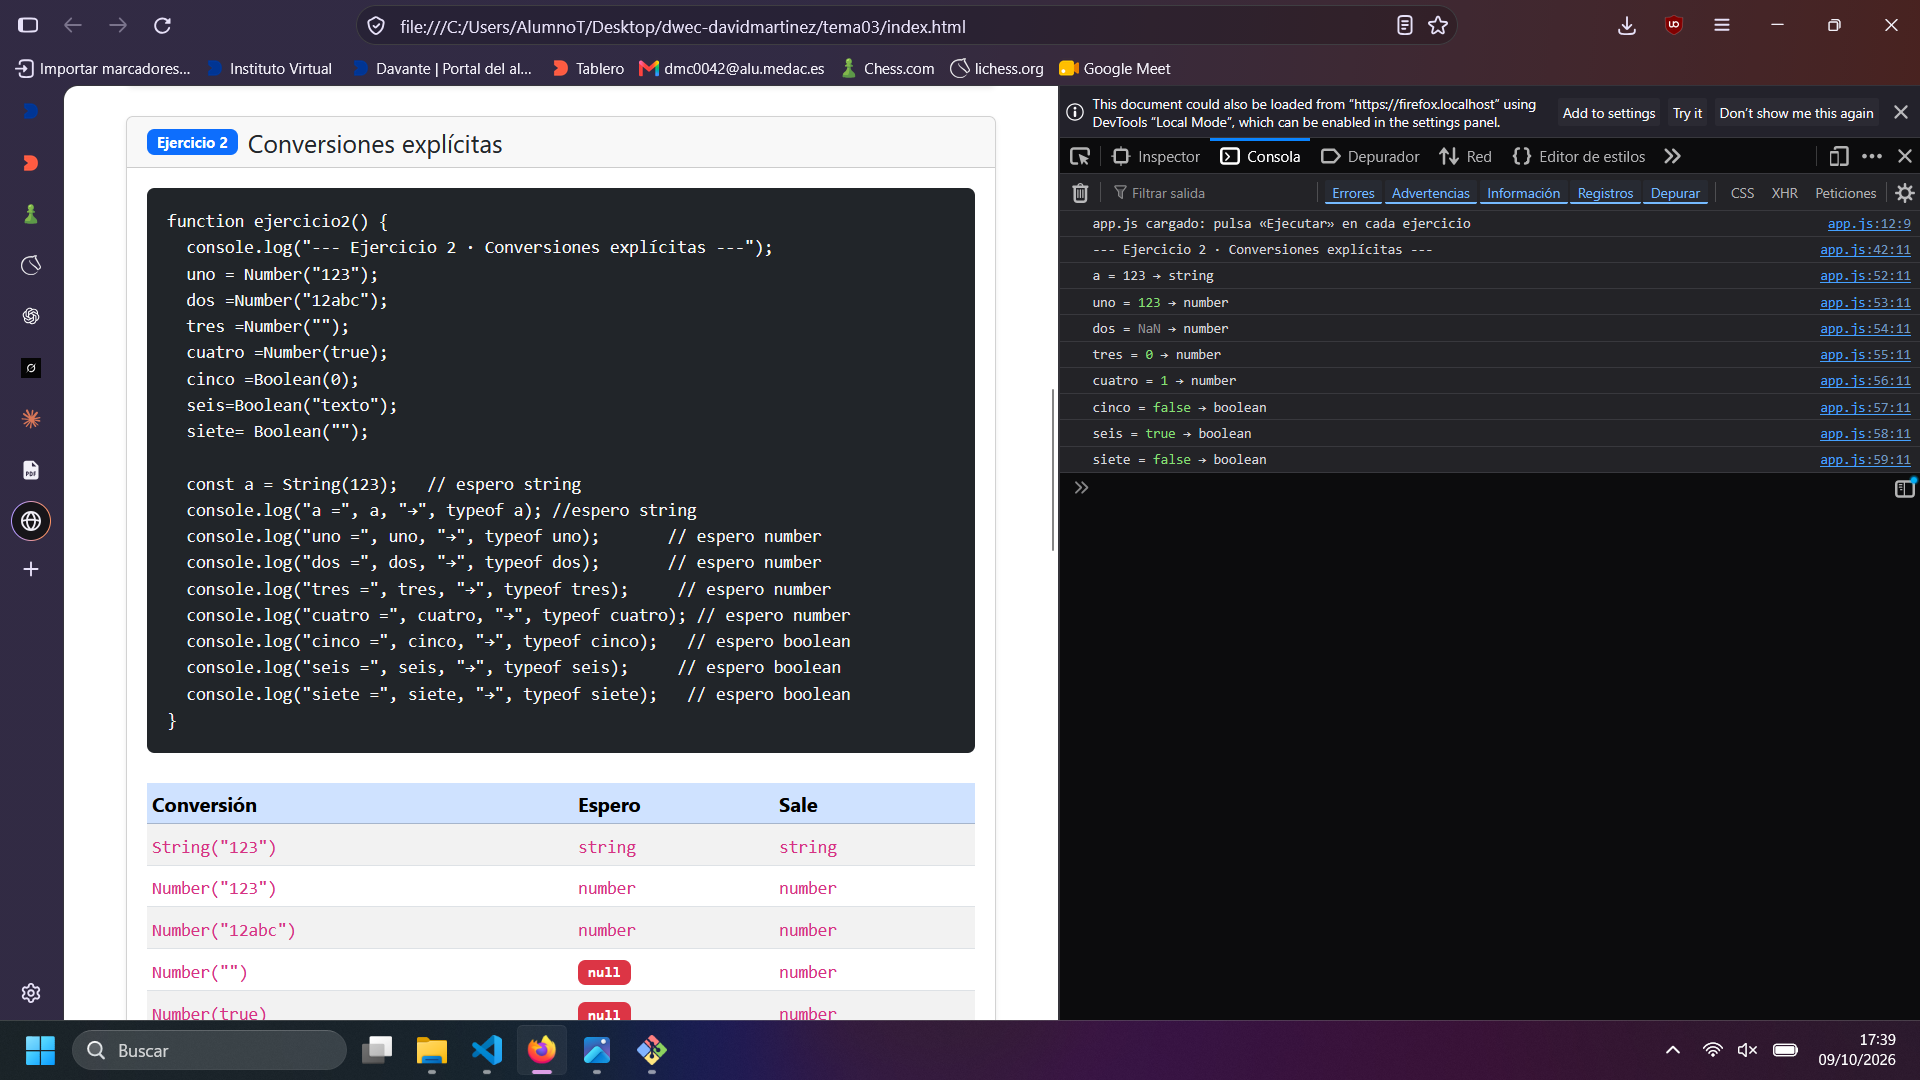
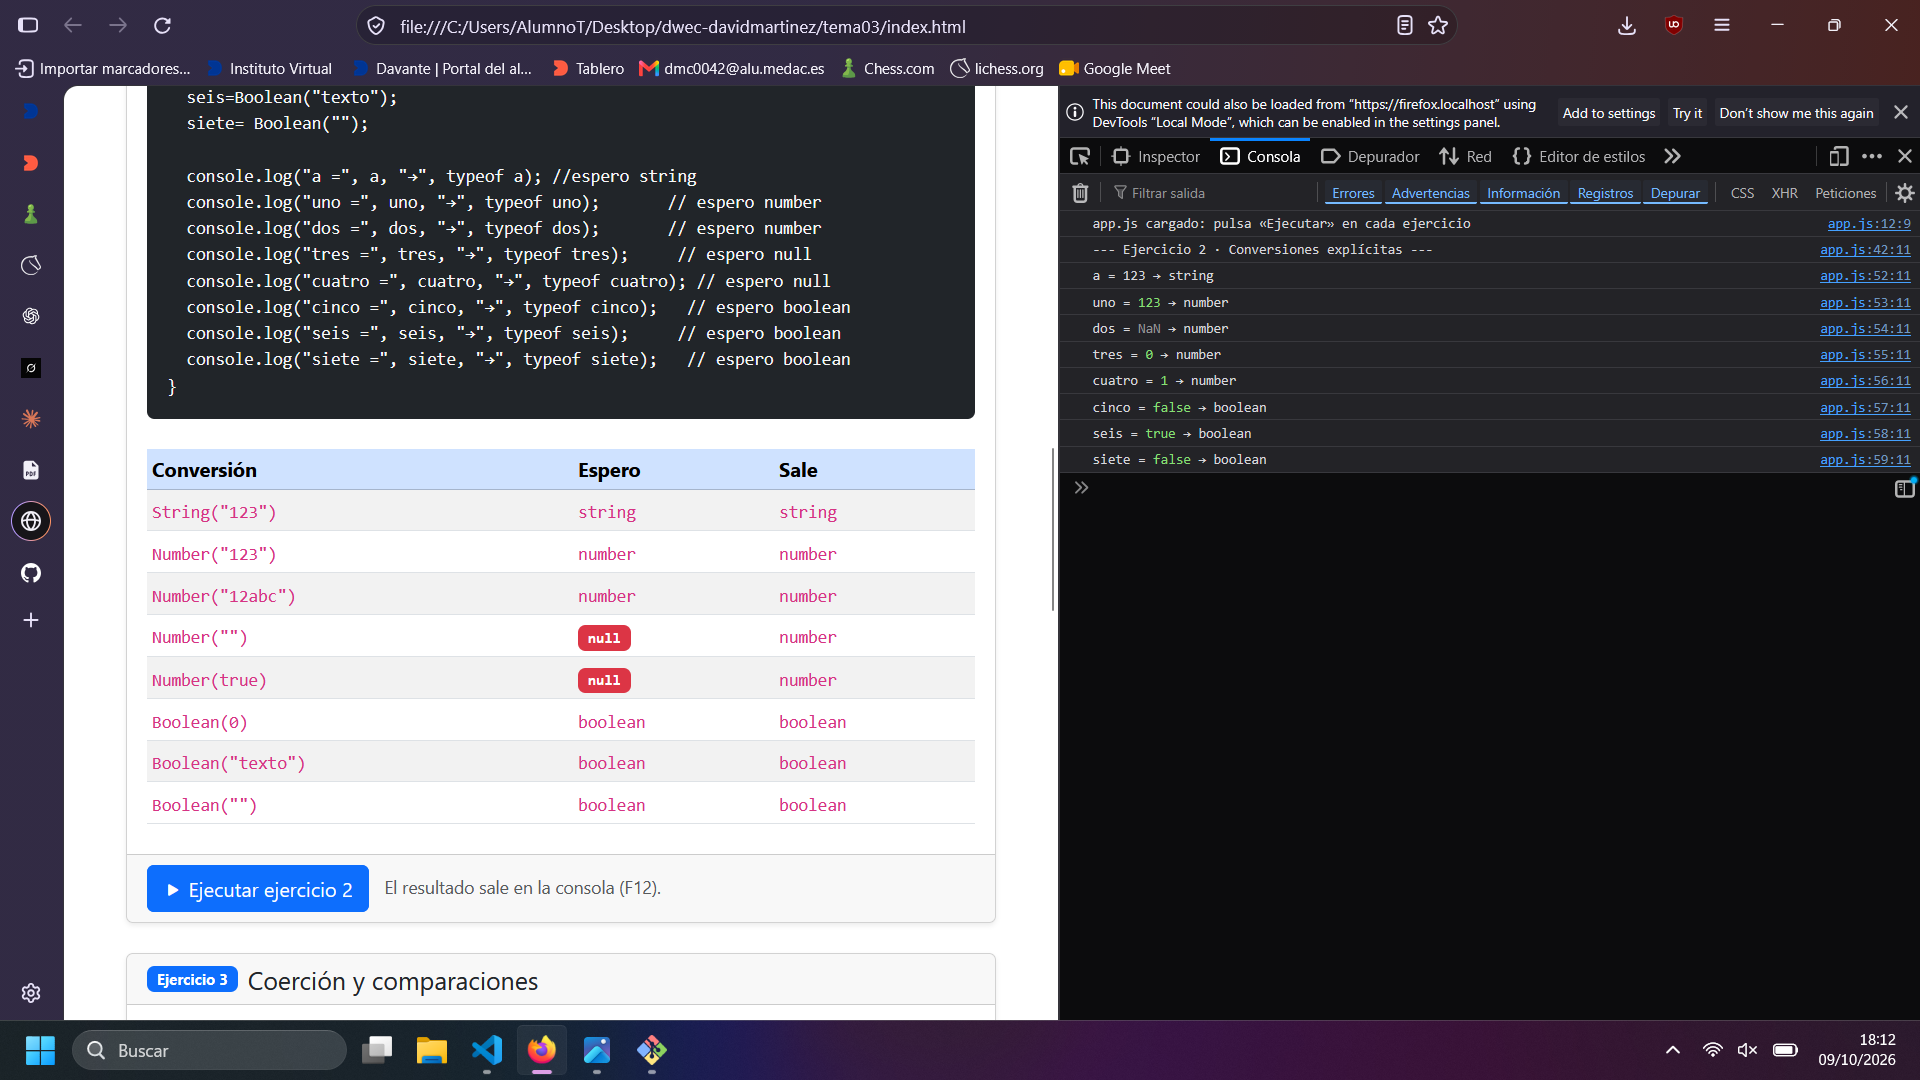
Cambiada captura errónea y algun texto sobrante

Changed region(s): [[0.0625, 0.0611, 0.5312, 0.9472], [0.0, 0.5194, 0.0312, 0.55]]

diff --git a/tema03/README.md b/tema03/README.md
@@ -48,5 +48,5 @@ Luego los booleanos me parecieron bastante intuitivos porque al ser o 0 o 1 es m
 - [Claude](https://claude.ai)
 ## Uso de IA
 
-[Si has usado IA: qué herramienta, para qué y qué hiciste después con su respuesta. Si no la has usado, borra este apartado.]
+
 ChatGPT, Claude: explicacion typeof null, explicación cuando mandan cadenas o no, modificación de las tablas(rellenarlas partiendo con el código de js) y console logs (crearlos con el mismo formato a partir de las variables que le pasé).
